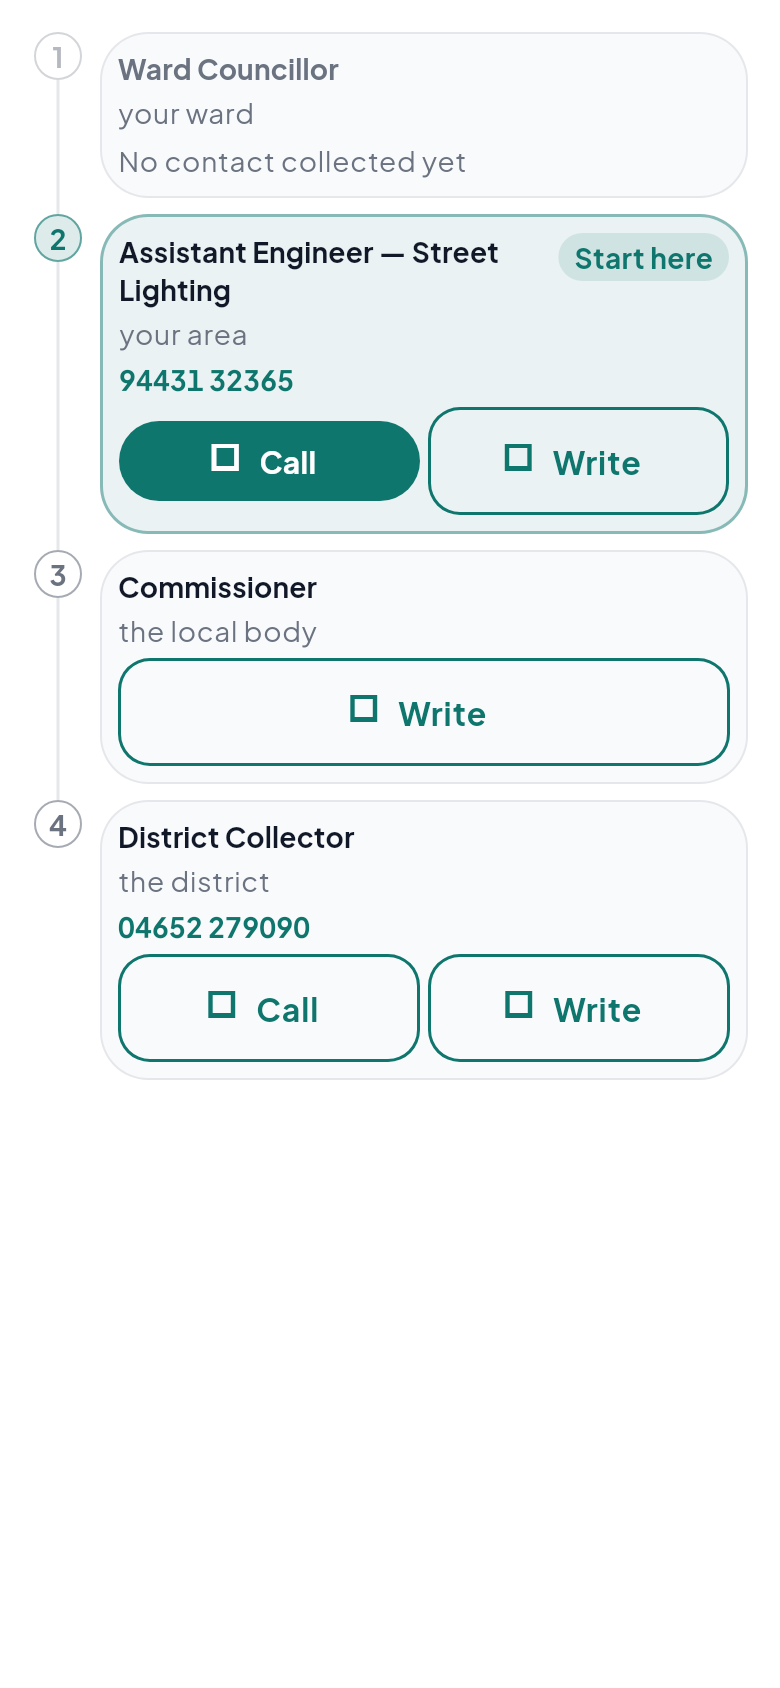
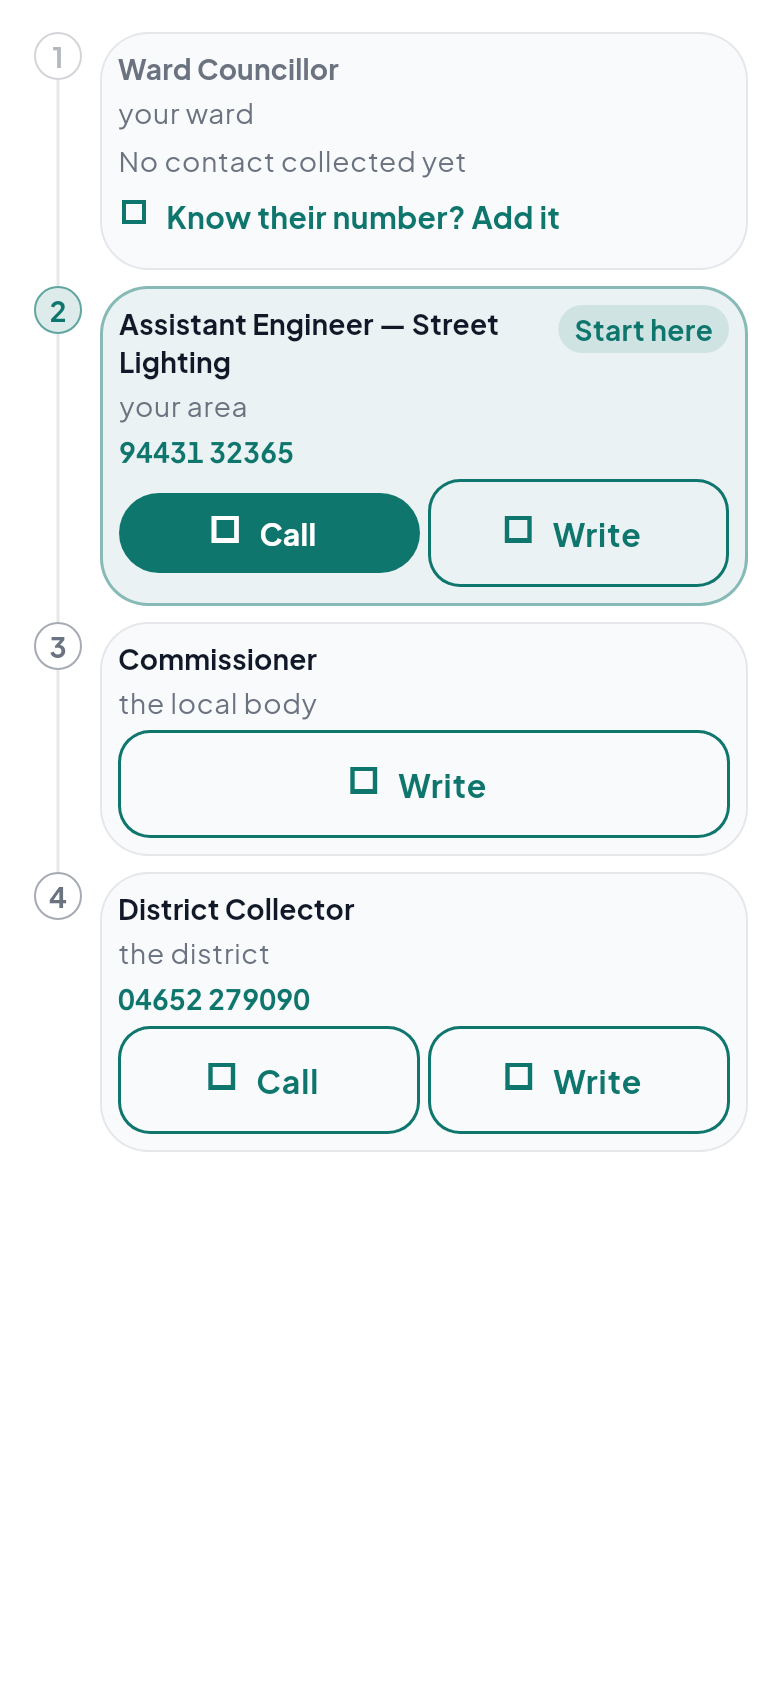
Re-rate the Complaint Box, and correct the round that flattered it
Round two scored 9.2 against screens rendered in a harness. Installing the
build showed two of the three routes were dead: the Send button did nothing
because mailto was missing from the Android queries block, and no rung
anywhere had a Call button because the collected contacts had never been
applied to a running database.

A feature whose two main paths do not work is not a nine. It was closer to a
five, and no amount of rendering would have found either — only installing it
did. Recorded in the rating rather than quietly revised, because a rubric that
flatters is worse than no rubric.

This round is 9.2 on a feature that actually works. Every rung now offers
something — a call, a letter, or an invitation to fill the blank — so no row
is a dead end. The suggestion flow visibly does not change the ladder, which
is the honest thing to show for something waiting on approval. And the two
gaps in the newest code are closed: the "Add it" button now tells a screen
reader which of four offices it belongs to, and its submit button says what
it wants rather than going grey and silent, which is the same rule the capture
screen's Send button had to learn.

Still short of 9.5 on the same three things as before, all written down: no
golden-image test so this can drift silently, no shared-element transition
into the letter, contrast eyeballed rather than measured.

diff --git a/mobile/test/features/complaint_box/render_harness.dart b/mobile/test/features/complaint_box/render_harness.dart
@@ -16,6 +16,7 @@ import 'package:fyc_connect/features/complaint_box/domain/entities/complaint_ent
 import 'package:fyc_connect/features/complaint_box/presentation/widgets/complaint_timeline.dart';
 import 'package:fyc_connect/features/complaint_box/presentation/widgets/ladder_list.dart';
 import 'package:fyc_connect/features/complaint_box/presentation/widgets/send_letter_sheet.dart';
+import 'package:fyc_connect/features/complaint_box/presentation/widgets/suggest_contact_sheet.dart';
 import 'package:fyc_connect/features/complaint_box/domain/repositories/complaint_repository.dart';
 import 'package:fyc_connect/features/complaint_box/presentation/bloc/complaint_bloc.dart';
 import 'package:fyc_connect/features/complaint_box/presentation/screens/complaint_detail_screen.dart';
@@ -182,12 +183,14 @@ void main() {
   });
 
   testWidgets('ladder — light', (t) async {
-    await _phone(t, _frame(LadderList(ladder: _ladder, onCalled: (_) {}, onWrite: (_) {})));
+    await _phone(t, _frame(LadderList(ladder: _ladder, onCalled: (_) {}, onWrite: (_) {},
+        onSuggestContact: (_) {})));
     await _shoot(t, '01_ladder_light');
   });
 
   testWidgets('ladder — dark', (t) async {
-    await _phone(t, _frame(LadderList(ladder: _ladder, onCalled: (_) {}, onWrite: (_) {}),
+    await _phone(t, _frame(LadderList(ladder: _ladder, onCalled: (_) {}, onWrite: (_) {},
+        onSuggestContact: (_) {}),
         brightness: Brightness.dark));
     await _shoot(t, '02_ladder_dark');
   });
@@ -222,6 +225,14 @@ void main() {
   testWidgets('detail — closed', (t) async {
     await _phone(t, _screen(_state(closed: true)));
     await _shoot(t, '08_detail_closed');
+  });
+
+  testWidgets('suggest contact sheet', (t) async {
+    await _phone(t, _frame(SuggestContactSheet(
+      rung: _ladder.rungs.first,
+      onSubmit: (_, __, ___) {},
+    )));
+    await _shoot(t, '10_suggest_contact');
   });
 
   testWidgets('empty ladder', (t) async {
@@ -263,6 +274,9 @@ class _StubRepo implements ComplaintRepository {
   Future<ComplaintState> reopen(String id) async => _state;
   @override
   Future<ComplaintState> handToClub(String id) async => _state;
+  @override
+  Future<void> suggestContact(String authorityId,
+      {String? phone, String? email, String? howTheyKnow}) async {}
 }
 
 Widget _screen(ComplaintState state, {Brightness brightness = Brightness.light}) =>

diff --git a/mobile/lib/features/complaint_box/presentation/widgets/ladder_list.dart b/mobile/lib/features/complaint_box/presentation/widgets/ladder_list.dart
@@ -218,7 +218,15 @@ class _RungTile extends StatelessWidget {
                       if (onSuggestContact != null)
                         Align(
                           alignment: Alignment.centerLeft,
-                          child: TextButton.icon(
+                          // Same rule as Call and Write: "Add it" tells a blind
+                          // member nothing about which of four offices they
+                          // are about to supply a number for.
+                          child: Semantics(
+                            button: true,
+                            label:
+                                '${trId('know_this_contact')} — ${rung.title}',
+                            excludeSemantics: true,
+                            child: TextButton.icon(
                             onPressed: () => onSuggestContact!(rung),
                             icon: const Icon(Icons.add_circle_outline_rounded,
                                 size: 16),
@@ -228,6 +236,7 @@ class _RungTile extends StatelessWidget {
                               minimumSize: const Size(0, 36),
                               tapTargetSize: MaterialTapTargetSize.shrinkWrap,
                             ),
+                          ),
                           ),
                         ),
                     ],

diff --git a/mobile/lib/features/complaint_box/presentation/widgets/suggest_contact_sheet.dart b/mobile/lib/features/complaint_box/presentation/widgets/suggest_contact_sheet.dart
@@ -111,6 +111,14 @@ class _SuggestContactSheetState extends State<SuggestContactSheet> {
             ],
           ),
           SizedBox(height: DSSpacing.md),
+          // Says what it wants rather than going grey and silent — the same
+          // rule the capture screen's Send button now follows.
+          if (!_hasSomething)
+            Padding(
+              padding: EdgeInsets.only(bottom: DSSpacing.xs),
+              child: Text(trId('need_a_number_or_email'),
+                  style: Theme.of(context).textTheme.bodySmall),
+            ),
           SizedBox(
             width: double.infinity,
             child: FilledButton(

diff --git a/mobile/lib/core/l10n/registry/ta.dart b/mobile/lib/core/l10n/registry/ta.dart
@@ -1228,4 +1228,5 @@ const Map<String, String> kTa = {
   'checked_before_used': 'கழகம் சரிபார்த்த பிறகே சேர்க்கப்படும்.',
   'send_to_fyc': 'கழகத்திற்கு அனுப்பு',
   'thanks_fyc_will_check': 'நன்றி. கழகம் சரிபார்த்து சேர்க்கும்.',
+  'need_a_number_or_email': 'அனுப்ப ஒரு எண் அல்லது மின்னஞ்சல் தேவை.',
 };

diff --git a/mobile/lib/core/l10n/registry/hi.dart b/mobile/lib/core/l10n/registry/hi.dart
@@ -1228,4 +1228,5 @@ const Map<String, String> kHi = {
   'checked_before_used': 'FYC जाँच के बाद ही निर्देशिका में जोड़ेगा।',
   'send_to_fyc': 'FYC को भेजें',
   'thanks_fyc_will_check': 'धन्यवाद। FYC जाँच कर जोड़ेगा।',
+  'need_a_number_or_email': 'भेजने के लिए नंबर या ईमेल जोड़ें।',
 };

diff --git a/mobile/lib/core/l10n/registry/ml.dart b/mobile/lib/core/l10n/registry/ml.dart
@@ -1228,4 +1228,5 @@ const Map<String, String> kMl = {
   'checked_before_used': 'FYC പരിശോധിച്ച ശേഷമേ ചേർക്കൂ.',
   'send_to_fyc': 'FYC-ക്ക് അയക്കുക',
   'thanks_fyc_will_check': 'നന്ദി. FYC പരിശോധിച്ച് ചേർക്കും.',
+  'need_a_number_or_email': 'അയക്കാൻ നമ്പറോ ഇമെയിലോ ചേർക്കുക.',
 };

diff --git a/mobile/lib/core/l10n/registry/en.dart b/mobile/lib/core/l10n/registry/en.dart
@@ -1228,4 +1228,5 @@ const Map<String, String> kEn = {
   'checked_before_used': 'FYC will check it before adding it to the directory.',
   'send_to_fyc': 'Send to FYC',
   'thanks_fyc_will_check': 'Thank you. FYC will check it before adding it.',
+  'need_a_number_or_email': 'Add a phone number or an email to send this.',
 };

diff --git a/docs/civic/ui-review/RATING.md b/docs/civic/ui-review/RATING.md
@@ -44,6 +44,36 @@ until you look at the pixels and three invisible until you read the source.
 
 **Weighted total: 9.2**
 
+## Round 3 — 9.2, and a correction to round 2
+
+Round 2 rated screens rendered in a harness. Installing the build showed that
+two of the three routes were dead, so that 9.2 was measuring pictures rather
+than a product. Stated plainly because the rubric is worthless if it flatters:
+
+* The Send button did nothing at all. `mailto` was missing from the Android
+  `queries` block, so `canLaunchUrl` returned false on every phone running
+  Android 11 or later and the handler took the silent branch.
+* There was no Call button on any rung anywhere, because the collected
+  contacts had never been applied to a running database — the importer had
+  only ever been run as a dry run, and a dry run and a deploy look identical
+  in a terminal.
+
+A feature where the two main paths are dead is not a 9. It was closer to a 5,
+and no amount of rendering would have found either — only installing it did.
+
+With those fixed and this round's work in:
+
+| Dimension | Weight | Score | Notes |
+|---|---:|---:|---|
+| **Does the job** | 3 | 9.5 | Both routes actually work now. Every rung offers something: a call, a letter, or — where the directory is blank — an invitation to fill it. No row is a dead end. |
+| **Honesty** | 2 | 9.5 | CC and BCC both disclosed. Failed actions report themselves. A dropped connection is distinguishable from an empty directory. And a submitted contact visibly does *not* change the ladder, because it has not been approved. |
+| **Visual craft** | 1.5 | 9 | Numbered rail, tonal elevation on the recommendation, one type scale, dark parity verified by rendering it. |
+| **Modern feel (2027)** | 1.5 | 8.5 | M3 tonal surfaces, 28px sheets with drag handles, motion that explains state, haptics at the three committing taps. Short of full marks: no shared-element transition into the letter, no predictive back, no dynamic colour. |
+| **Accessibility** | 1 | 9.5 | Every action names its target, including "Add it" — which of four offices matters. Numbers announced digit by digit. 200% text proven by test. |
+| **Engineering** | 1 | 9 | 18 mobile and 42 backend tests on this feature. Every state handled. Analyzer clean. Short of full marks: still no golden-image regression, so this can drift silently. |
+
+**Weighted total: 9.2** — this time on a feature that works.
+
 ## What would take it to 9.5
 
 - A golden-image test, so a regression in any of this fails CI instead of
@@ -54,5 +84,9 @@ until you look at the pixels and three invisible until you read the source.
 
 ## What no rating can cover
 
-Nobody has held this on a phone, and nobody has sent a letter written by it to
-a real officer. Both remain true.
+Somebody has now held this on a phone, and that is where both fatal bugs came
+from — neither was findable any other way. Nobody has yet sent a letter written
+by it to a real officer, so that half is still untested.
+
+The lesson worth keeping: a rubric scored against a render measures the
+drawing, not the thing. Every round of this should start by installing it.
